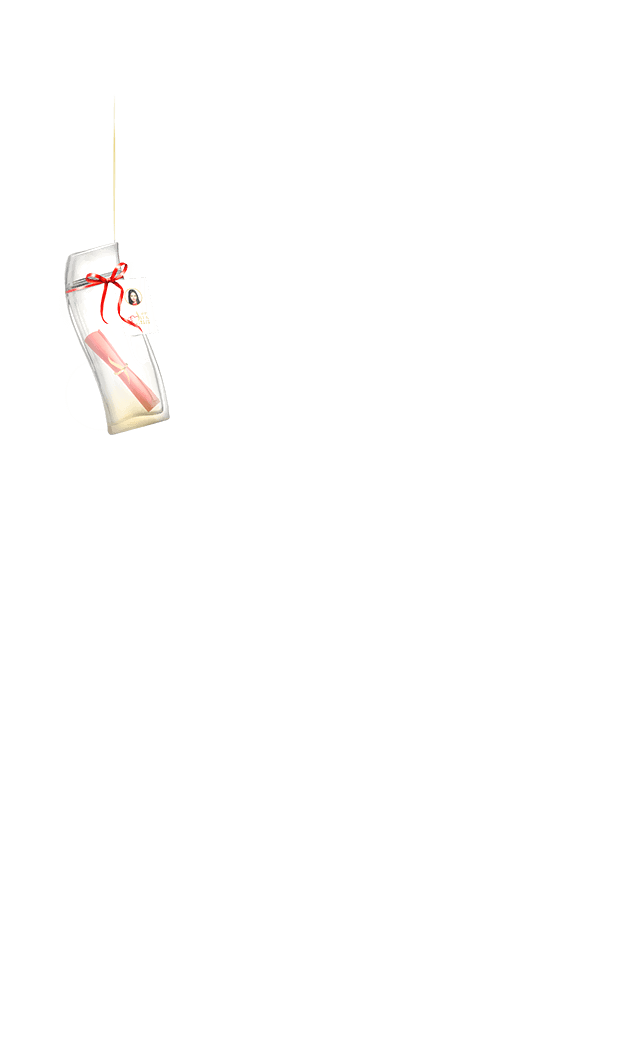
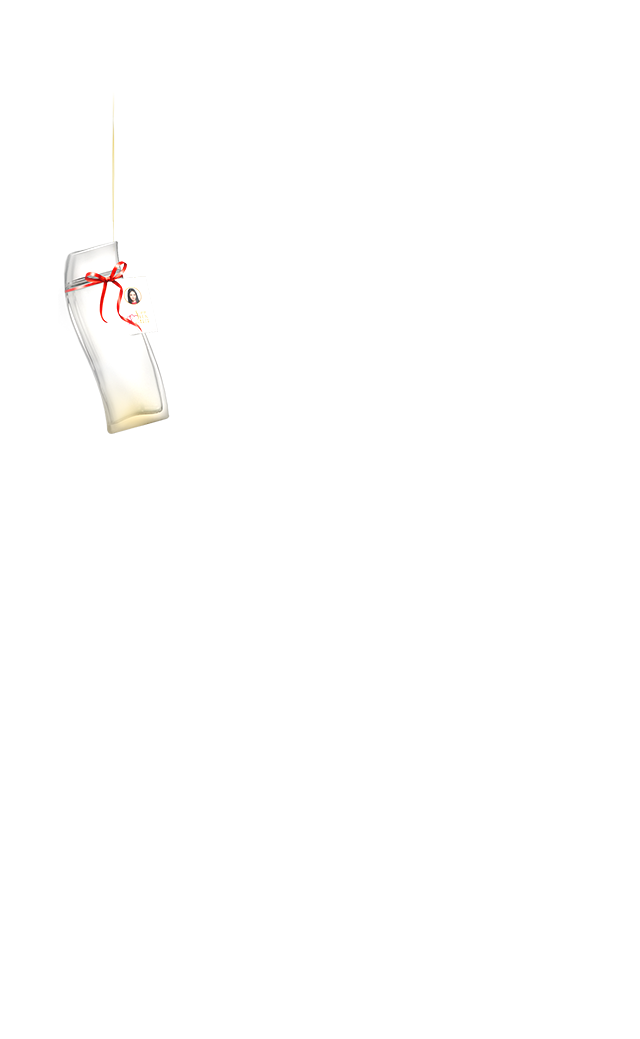
bug修复

Changed region(s): [[0.0938, 0.1232, 0.25, 0.4004]]

diff --git a/src/AppBundle/Resources/public/default/css/common.css b/src/AppBundle/Resources/public/default/css/common.css
@@ -1,5 +1,5 @@
 /* Global Setting */
-body{margin:0; padding:0;text-align:left; font-size:12px; font-family:Arial; background:#FFF;}
+body{margin:0; padding:0;text-align:left; font-size:12px; font-family:Arial; background:#dd1039;}
 table{border-collapse:collapse;}
 td,th{padding:0;}
 ul,li,dd,dl,dt{margin:0; padding:0; list-style:none; word-break:break-all;}
@@ -28,7 +28,8 @@ select,input,textarea{font-family:inherit; outline:none;}
 .topBtn1{ padding:10px; position:absolute; top:10px; right:10px;}
 
 .loading{ background:url(../images/loading.png) 0 0 no-repeat;}
-.loadingProgress{ width:640px; height:380px; position:absolute; left:0; bottom:397px; background:#e6c56b;}
+.loadingProgress{ width:640px; height:380px; position:absolute; left:0; bottom:397px; background:url(../images/loadingImg2.png) center top no-repeat;}
+.loadingBg{ width:640px; height:380px; position:absolute; left:0; bottom:397px; background:#FFF;}
 
 /*page1*/
 .page1Img1{ background:url(../images/page1Img1.png) 0 0 no-repeat;}
@@ -58,7 +59,7 @@ select,input,textarea{font-family:inherit; outline:none;}
 .page2Q li{ background:url(../images/page2Img3.png) 0 5px no-repeat; width:390px; padding:0 0 38px 43px;}
 .page2Q li a{ color:#8f5103; font-size:24px; line-height:34px}
 .page2Q li.on{ background-position:0 -68px;}
-.page2Q li.on a{ color:#cb152b;}
+/*.page2Q li.on a{ color:#cb152b;}*/
 .wish{ width:412px; height:105px; padding:20px; color:#c0a56d; font-size:24px; line-height:34px; position:absolute; left:90px; top:547px; background:none; border:none; resize:none;}
 .page2Img2{ left:288px; top:743px;}
 .page2Btn1{ left:50%; margin-left:-142px; top:840px;}
@@ -68,6 +69,7 @@ select,input,textarea{font-family:inherit; outline:none;}
 .page3Img2{ left:288px; top:107px;}
 .page3Img3{ background:url(../images/page3Img3.png) 0 0 no-repeat;}
 .fileBtn{ display:block; position:absolute; width:148px; height:188px; left:245px; top:272px; opacity:0; -webkit-opacity:0;}
+.wechatPhoto{ display:block; position:absolute; width:148px; height:188px; left:245px; top:272px; opacity:0; -webkit-opacity:0;}
 .upLoadImg{ width:144px; height:184px; border:2px solid #a57d3c; border-radius:5px; position:absolute; left:245px; top:272px; background:#FFFFFF;}
 .iTxt{ width:317px; height:57px; line-height:56px; font-size:24px; color:#c0a56d; background:none; border:none; position:absolute; left:211px; padding:0 15px;}
 .iTxt1{ top:593px;}
@@ -87,13 +89,13 @@ select,input,textarea{font-family:inherit; outline:none;}
 .page4Img1{ background:url(../images/page4Img1.png) 0 0 no-repeat;}
 .page4Img2{ background:url(../images/page4Img2.png) 0 0 no-repeat;}
 .page4Img3{ background:url(../images/page4Img3.png) 0 0 no-repeat;}
-.page4Img5{ left:155px; top:135px; opacity:0; -webkit-opacity:0;}
+.page4Img5{ left:90px; top:305px; opacity:0; -webkit-opacity:0;}
 .page4Img5Act{
--webkit-animation:page4Img5Act 1s 0s ease both;
+-webkit-animation:page4Img5Act 2s 0s ease both;
 }
 @-webkit-keyframes page4Img5Act{
-0%{ -webkit-transform:translate(0,-300px); opacity:0; -webkit-opacity:0;}
-100%{ -webkit-transform:translate(0,0); opacity:1; -webkit-opacity:1;}
+0%{ -webkit-transform:translate(0,-500px) rotate(-70deg); opacity:1; -webkit-opacity:1;}
+100%{ -webkit-transform:translate(0,0) rotate(-70deg); opacity:0.7; -webkit-opacity:0.7;}
 }
 
 /*share*/

diff --git a/src/AppBundle/Resources/public/default/js/common.js b/src/AppBundle/Resources/public/default/js/common.js
@@ -228,6 +228,15 @@ function goPage1(){
 function goPage2(){
 	$('.page1').fadeOut(500);
 	$('.page2').fadeIn(500);
+	
+	wx.checkJsApi({
+		jsApiList: [
+			'chooseImage'
+			],
+		success: function (res) {
+			isWechat=true;
+			}
+		});
 	}
 	
 function choseQ(e){
@@ -242,9 +251,35 @@ function choseQ(e){
 	}	
 	
 var isWechat=false;//是否加载完js-sdk
+var imgId;
 function goPage3(){
+	var wish=$('#wishText').val();
+	if(wish==''){
+		alert('请选择或者填写心愿');
+		return false;
+		}
 	if(isWechat){
 		$('.wechatPhoto').show();
+		$('.wechatPhoto').click(function(){
+			wx.chooseImage({
+                count: 1, // 默认9
+                sizeType: ['original'], // 可以指定是原图还是压缩图，默认二者都有
+                sourceType: ['album', 'camera'], // 可以指定来源是相册还是相机，默认二者都有
+                success: function (res) {
+                    $('.upLoadImg').attr('src',res.localIds);
+					$('#preview').show();
+					isSelectedImg=true;
+                    imgId = res.localIds.pop();
+                },
+				cancel:function(res){
+					alert('请允许');
+					window.location.reload();
+					},
+				fail:function(res){
+					alert('请重新选择');
+					}
+            	});
+			});
 		}
 		else{
 			$('.fileBtn').show();
@@ -252,6 +287,7 @@ function goPage3(){
 	$('.page2').fadeOut(500);
 	$('.page3').fadeIn(500);
 	}
+	
 
 /*图片上传*/
 //全局变量
@@ -340,8 +376,26 @@ function go4(){
 		setTimeout(function(){
 			$('.page3Img1').css('background-position','-1280px 0');
 			setTimeout(function(){
-				$('.page3Img1').hide();
-				submitInfo();
+				$('.page3').hide();
+				$('.page0').show();
+				$('.topBar').hide();
+				
+				if(isWechat){
+					wx.uploadImage({
+						localId: imgId, // 需要上传的图片的本地ID，由chooseImage接口获得
+                        isShowProgressTips: 1, // 默认为1，显示进度提示
+                        success: function (res) {
+                            var serverId = res.serverId; // 返回图片的服务器端ID
+                            //$('#imageId').val(res.serverId);
+                            submitInfo();
+							}
+						});
+					}
+					else{
+						submitInfo();
+						}
+				
+				
 				},200);
 			},200);
 		},200);
@@ -351,12 +405,18 @@ function go4(){
 	}	
 	
 function goPage4(){
+	wx.checkJsApi({
+		jsApiList: [
+			'chooseImage'
+			],
+		success: function (res) {
+			isWechat=true;
+			}
+		});
+	
 	$('.page0').fadeOut(500);
 	$('.topBar').fadeIn(500);
 	$('body').css('background','url(/bundles/app/default/images/bg.png) top center no-repeat');
-	
-	//$('.page3Img1').addClass('page3Img1Act');
-	//$('.page3Con').fadeOut(500);
 	setTimeout(function(){
 		goPage4b();
 		},250);
@@ -368,6 +428,9 @@ function goPage4b(){
 		$('.page4').fadeIn(1000);
 		$('.page4b').fadeIn(1000);
 		$('.page4Img4').fadeIn(500);
+		setTimeout(function(){
+			$('.page4Img5').addClass('page4Img5Act');
+			},500);
 		},500);
 	}
 	
@@ -390,7 +453,6 @@ function goLotteryPage(){
 	closePop();
 	$('.page4Btn1').hide();
 	$('.page4Btn2').show();
-	$('.page4Img5').addClass('page4Img5Act');
 	}
 	
 function showRule(){

diff --git a/src/AppBundle/Controller/ApiController.php b/src/AppBundle/Controller/ApiController.php
@@ -128,7 +128,7 @@ class ApiController extends Controller
 			$qb->andWhere('a.username LIKE :username');
 			$qb->setParameter(':username', '%'.$request->get('username').'%');
 		}
-		$limit = 20;
+		$limit = 8;
 		$offset = ($page-1)*$limit;
 		if( null == $request->get('order')){
 			$order = array('username','desc');

diff --git a/src/AppBundle/Controller/AdminController.php b/src/AppBundle/Controller/AdminController.php
@@ -50,7 +50,7 @@ class AdminController extends Controller
 			$query,
 			$request->query->get('page', 1),/*page number*/
 			$this->pageSize
-			);
+		);
 		return $this->render('AppBundle:admin:award.html.twig', array('pagination'=>$pagination));
 	}
 	/**
